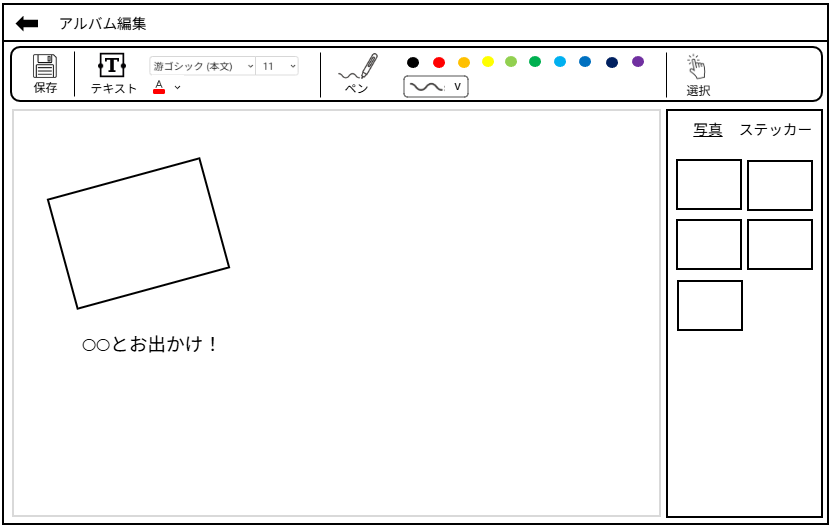
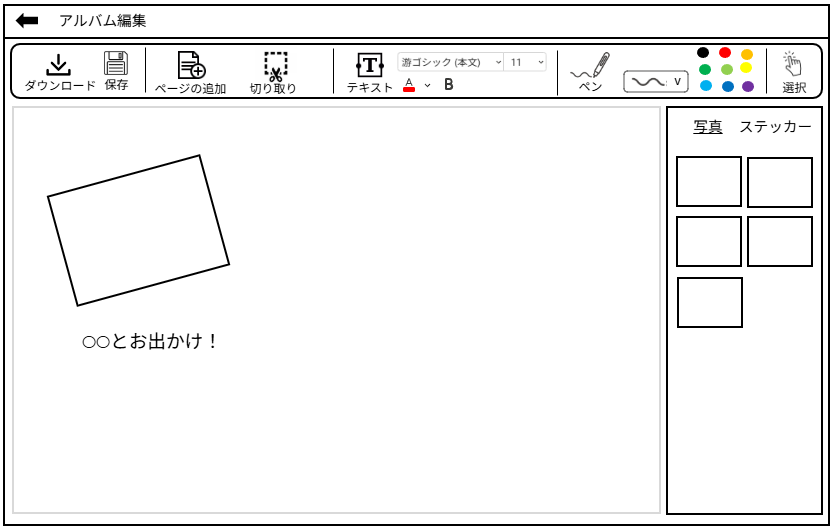
add usecase to system requirements

diff --git a/definitions/requirements/system_requirements.md b/definitions/requirements/system_requirements.md
@@ -90,41 +90,91 @@
 ## ユースケース
 
 ### ログインする
+1. ログインURLにアクセス
+2. ユーザIDとパスワードを入力
+3. 「ログイン」を押下
+4. アルバム一覧画面が表示される
+
+### 新規登録をする
+1. ログイン用URLにアクセス
+2. 「新規登録はこちら」を押下
+3. ユーザIDとパスワード（2回）を入力
+4. 「新規登録」を押下
+5. アルバム一覧画面が表示される
 
 ### アルバムを作成する
+1. 「新規作成」を押下
+2. アルバム編集画面が表示される
 
 ### アルバムを削除する
+1. アルバムのサムネイル右上にある三点リーダーを押下
+2. 「アルバムを削除する」を押下
 
 ### アルバムをダウンロードする
+1. アルバムをクリックし，アルバム編集画面へ遷移
+2. 「ダウンロード」を押下
+3. ダウンロード先のフォルダを選択
 
 ### アルバムを編集する
+1. アルバムをクリックし，アルバム編集画面へ遷移
 
 #### アルバムにページを追加する
+1. 「ページの追加」を押下
 
 #### アルバムに写真をアップロードする
+1. 右サイドバーから「写真」タブを選択
+2. フォルダを開く
+3. アップロードしたい写真を右サイドバーにドラッグ＆ドロップ
 
 #### アルバムに写真を貼る
+1. 右サイドバーから「写真」タブを選択
+2. 貼りたい写真を貼りたい位置にドラッグ＆ドロップ
 
 #### 写真を切り取る
+1. 写真を選択
+2. 「切り取る」をクリック
+3. 図形またはフリーハンドを選択
+4. 写真の選択を解除して切り取りを確定する
 
 #### ステッカーを貼る
+1. 右サイドバーから「ステッカー」タブを選択
+2. 貼りたいステッカーを貼りたい位置にドラッグ＆ドロップ
 
 #### テキストを追加する
+1. 「テキスト」をクリック
+2. テキストボックスを置きたい位置をクリック
+3. テキストを入力する
 
 #### テキストの色を変える
+1. テキストを選択
+2. バーから色を選択
 
 #### テキストの太さを変える
+1. テキストを選択
+2. 「B」マークをクリック
 
 #### ペンで書き込む
+1. 「ペン」をクリック
+2. アルバム上に書きこむ
 
 #### ペンの色を変更する
+1. 「ペン」状態で，色をクリック
 
 #### ペンの太さを変更する
+1. プルダウンから好きな太さを選択
 
 #### オブジェクトを傾ける
+1. オブジェクトを選択
+2. 回転ハンドルをドラッグ
 
 #### オブジェクトを移動する
+1. オブジェクトを選択
+2. ドラッグ＆ドロップ
 
 #### オブジェクトのサイズを変更する
+1. オブジェクトを選択
+2. 四隅をドラッグ
 
 #### オブジェクトを削除する
+1. オブジェクトを選択
+2. Deleteキーを押下
